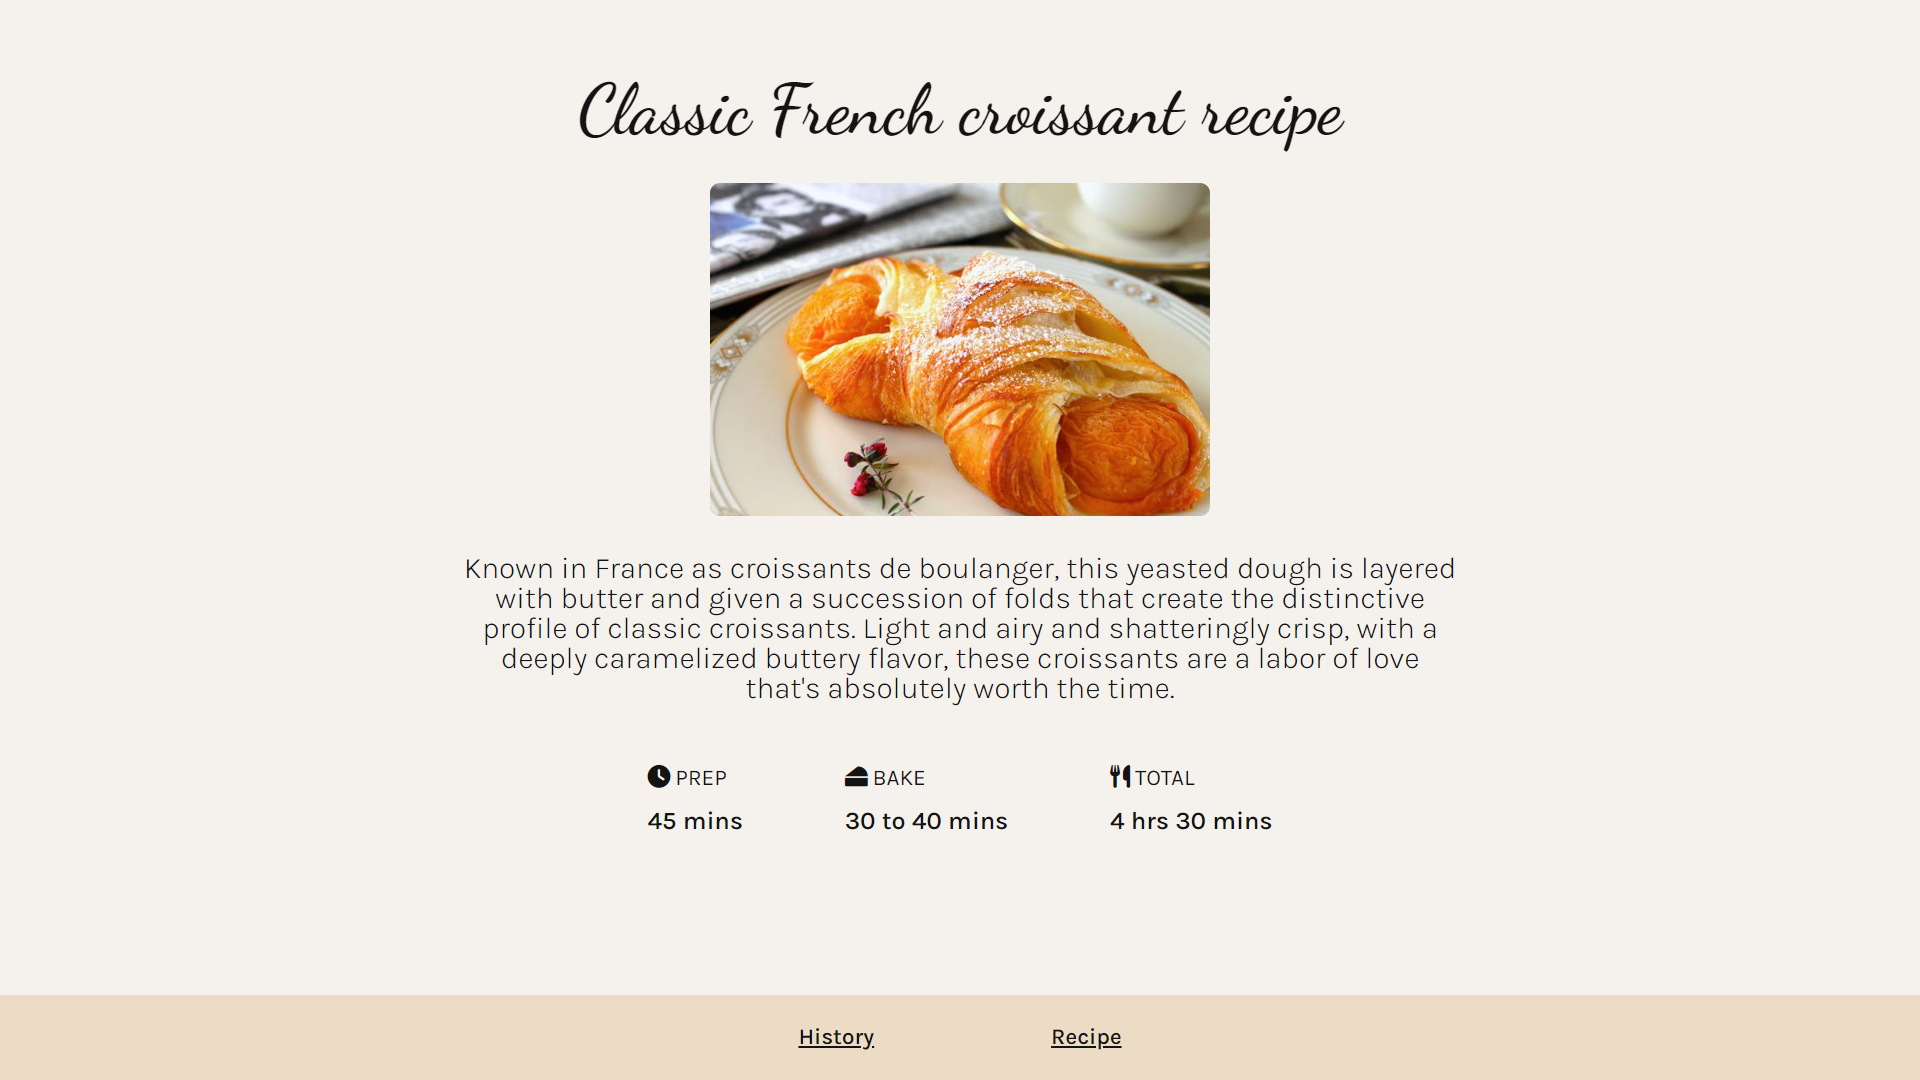
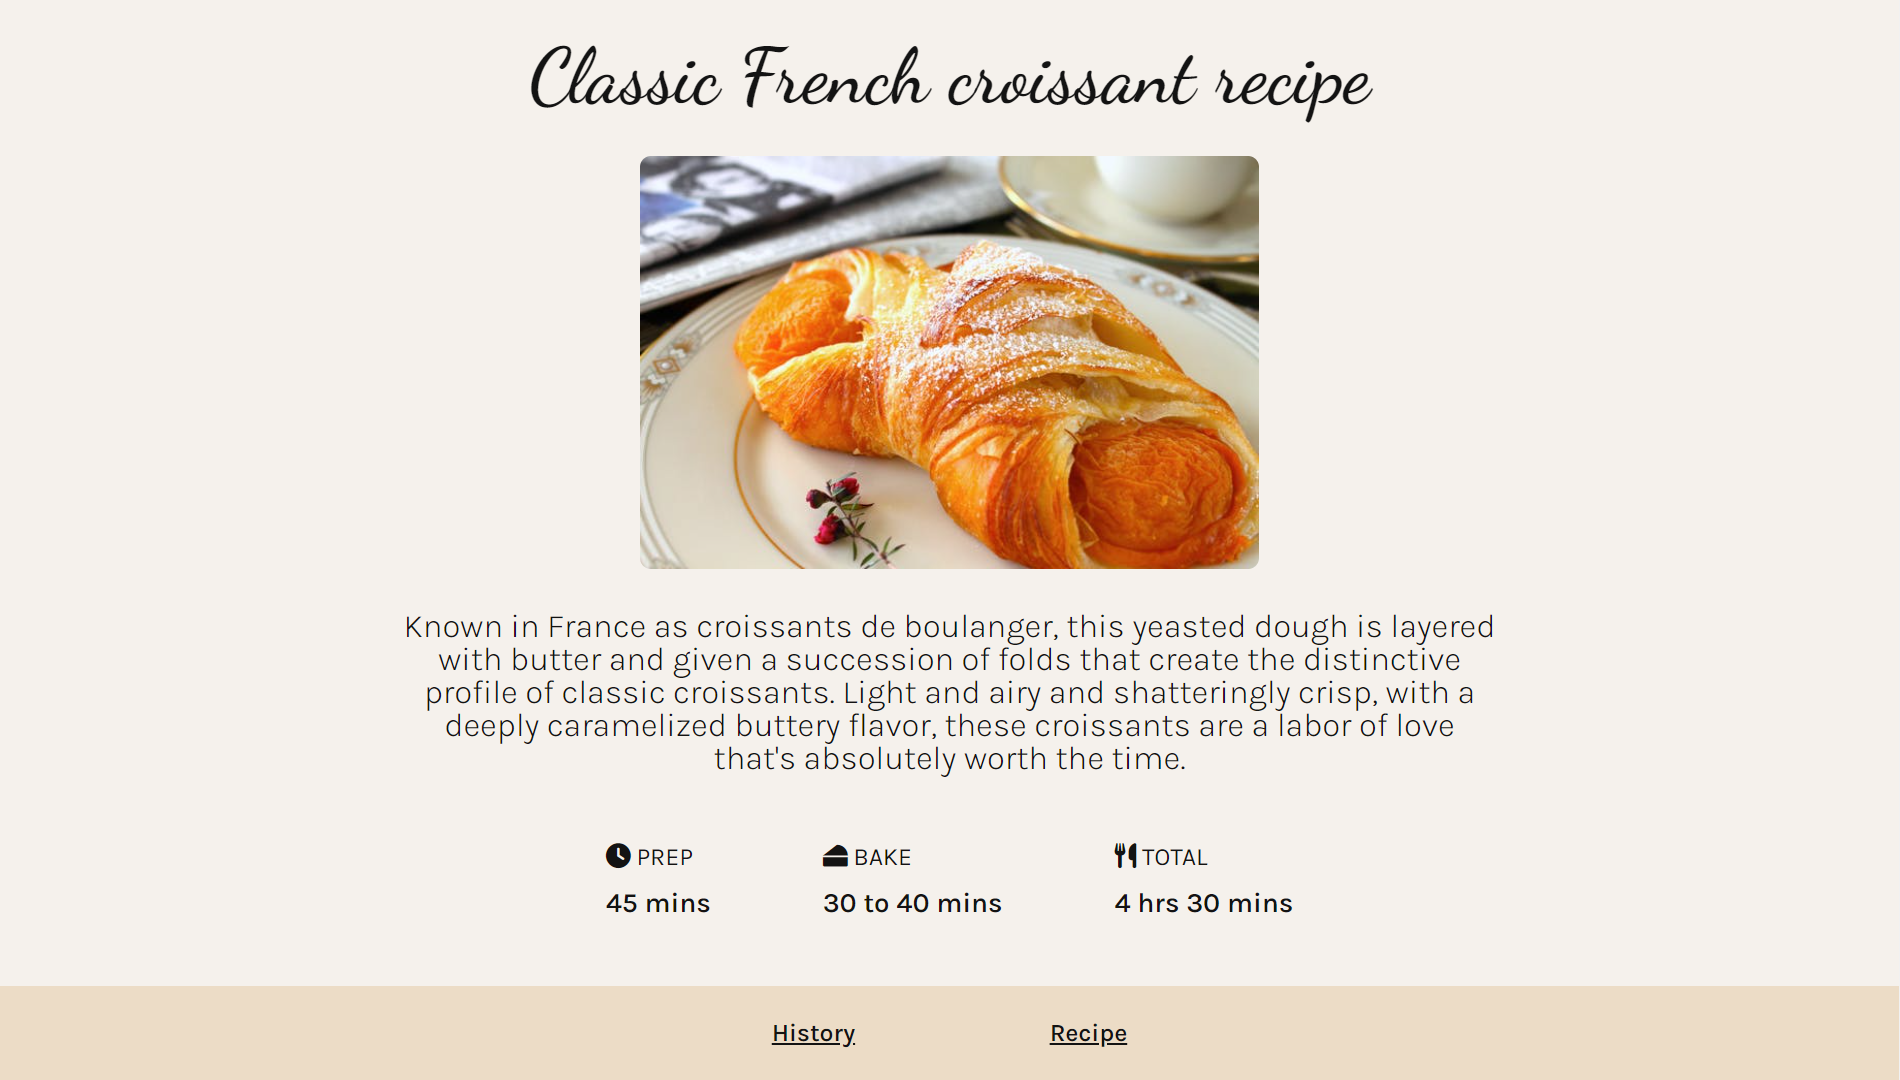
changed fonts

Changed region(s): [[0.2174, 0.0306, 0.7763, 0.8556], [0.0, 0.8861, 1.0, 0.9778], [0.59, 0.825, 0.6832, 0.8556]]

diff --git a/about.html b/about.html
@@ -5,11 +5,11 @@
    <meta charset="UTF-8" />
    <meta http-equiv="X-UA-Compatible" content="IE=edge" />
    <meta name="viewport" content="width=device-width, initial-scale=1.0" />
-  
+
    <link rel="preconnect" href="https://fonts.googleapis.com">
    <link rel="preconnect" href="https://fonts.gstatic.com" crossorigin>
    <link
-      href="https://fonts.googleapis.com/css2?family=Dancing+Script:wght@400;600;700&family=Poppins:wght@400;500;600;700&display=swap"
+      href="https://fonts.googleapis.com/css2?family=Dancing+Script:wght@400;600;700&family=Karla:ital,wght@0,300;0,400;0,500;0,600;0,700;1,400;1,500;1,600;1,700&display=swap"
       rel="stylesheet">
    <!-- CSS only -->
    <link href="https://cdn.jsdelivr.net/npm/bootstrap@5.2.0-beta1/dist/css/bootstrap.min.css" rel="stylesheet"

diff --git a/src/style.css b/src/style.css
@@ -6,7 +6,8 @@
 
 body {
    margin-top: 100px;
-   font-family: Poppins;
+   font-family: Karla;
+   color: rgb(33, 30, 36);
 }
 
 h1,
@@ -99,20 +100,17 @@ p {
    text-decoration: underline;
 }
 
-.name,
-.description,
-.greeting {
+.name {
    font-family: Dancing Script;
 }
 
-.greeting,
-.description {
+.greeting, .name{
    font-weight: 700;
 }
-
-.name {
+.description {
    font-weight: 500;
 }
+
 
 .first-row {
    margin-bottom: 25px;
@@ -155,7 +153,7 @@ p {
 
    .contact-me {
       font-size: 24px;
-    
+
    }
 
    .email-link {
@@ -195,7 +193,5 @@ p {
       font-size: 42px;
    }
 
-   .primary-link {
-      padding: 12px 20px;
-   }
+   
 }

diff --git a/index.html b/index.html
@@ -8,7 +8,7 @@
    <link rel="preconnect" href="https://fonts.googleapis.com">
    <link rel="preconnect" href="https://fonts.gstatic.com" crossorigin>
    <link
-      href="https://fonts.googleapis.com/css2?family=Dancing+Script:wght@400;600;700&family=Poppins:wght@400;500;600;700&display=swap"
+      href="https://fonts.googleapis.com/css2?family=Dancing+Script:wght@400;600;700&family=Karla:ital,wght@0,300;0,400;0,500;0,600;0,700;1,400;1,500;1,600;1,700&display=swap"
       rel="stylesheet">
    <!-- CSS only -->
    <link href="https://cdn.jsdelivr.net/npm/bootstrap@5.2.0-beta1/dist/css/bootstrap.min.css" rel="stylesheet"
